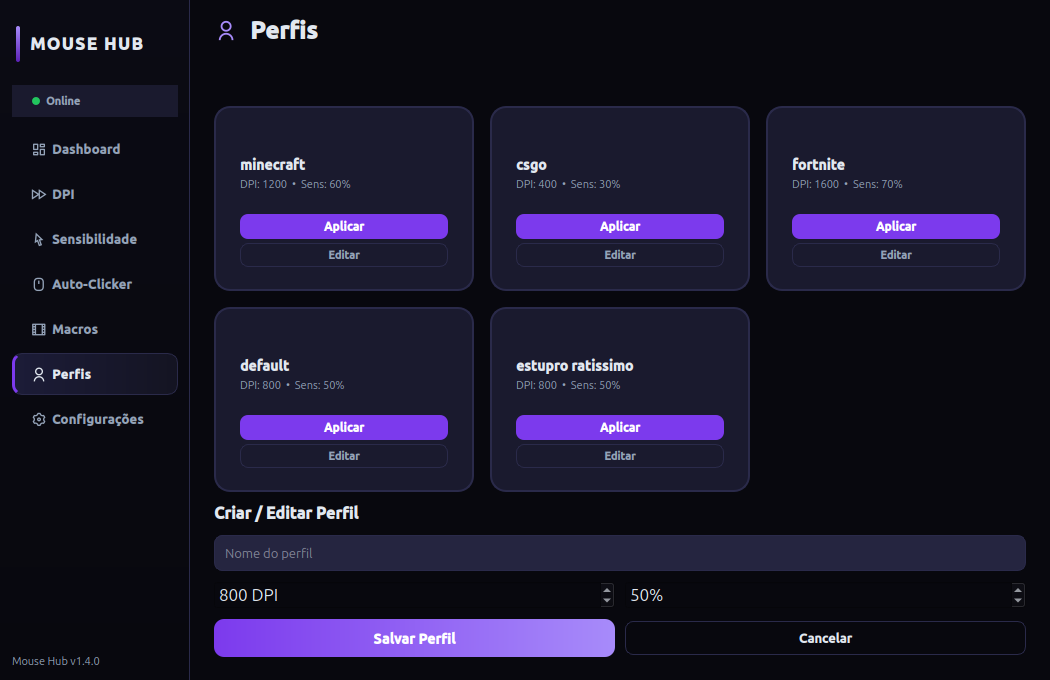
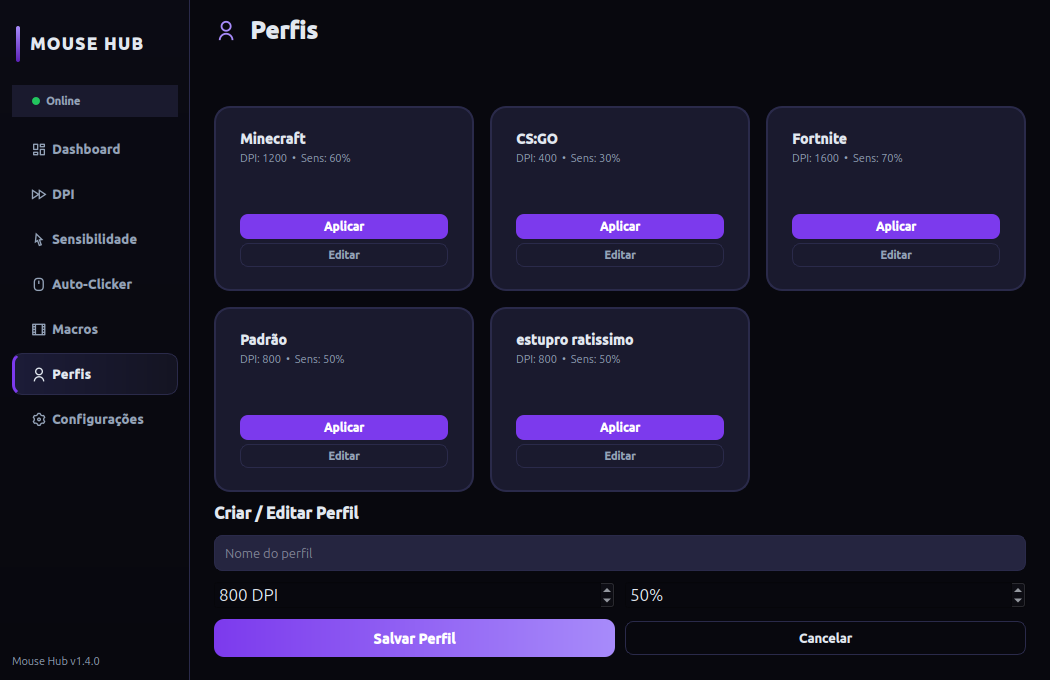
docs: record profile card validation evidence

diff --git a/specs/034-profile-card-labels/tasks.md b/specs/034-profile-card-labels/tasks.md
@@ -16,39 +16,39 @@
 
 **Independent Test**: `QT_QPA_PLATFORM=offscreen python3 -m pytest tests/test_issue85_86_profile_cards.py -q`.
 
-- [ ] T004 Criar `tests/test_issue85_86_profile_cards.py` com `QApplication`, `ProfileStore` temporário e helpers para localizar o título real de cada card.
-- [ ] T005 Escrever primeiro os testes da tabela `minecraft → Minecraft`, `csgo → CS:GO`, `fortnite → Fortnite`, `default → Padrão` e do fallback literal de nomes customizados/desconhecidos.
-- [ ] T006 Testar que `profile_cards` continua indexado pelas chaves internas e que os callbacks de Aplicar/Editar recebem o perfil original, não o label.
-- [ ] T007 Executar o teste dedicado antes da mudança de produção e registrar RED reproduzível causado pelos títulos crus e pela composição antiga.
-- [ ] T008 Adicionar o mapa/helper de display somente na UI e renderizar o título apresentado, preservando `ProfileStore` e os valores persistidos.
-- [ ] T009 Reexecutar os testes de labels e identidade e registrar GREEN.
+- [x] T004 Criar `tests/test_issue85_86_profile_cards.py` com `QApplication`, `ProfileStore` temporário e helpers para localizar o título real de cada card.
+- [x] T005 Escrever primeiro os testes da tabela `minecraft → Minecraft`, `csgo → CS:GO`, `fortnite → Fortnite`, `default → Padrão` e do fallback literal de nomes customizados/desconhecidos.
+- [x] T006 Testar que `profile_cards` continua indexado pelas chaves internas e que os callbacks de Aplicar/Editar recebem o perfil original, não o label.
+- [x] T007 Executar o teste dedicado antes da mudança de produção e registrar RED reproduzível: 4 testes passaram e 4 falharam nos contratos ausentes.
+- [x] T008 Adicionar o mapa/helper de display somente na UI e renderizar o título apresentado, preservando `ProfileStore` e os valores persistidos.
+- [x] T009 Reexecutar os testes de labels e identidade e registrar GREEN: 8 testes passaram.
 
 ## Phase 3: User Story 2 — cards sem header vazio (#86)
 
 **Goal**: O card inativo não reserva uma linha vazia, enquanto o badge ativo continua honesto e claro.
 
-- [ ] T010 Adicionar testes de composição que rejeitem `ic = QLabel("")`, contem o título no header e confirmem ausência de QLabel vazio visível no cabeçalho inativo.
-- [ ] T011 Adicionar a matriz de estados desconhecido, ativo, troca de ativo e estado não correspondente, verificando `✔ Ativo`, visibilidade e estilo.
-- [ ] T012 Adicionar testes parametrizados para 1050×680 e 760×560: contenção, ausência de overlap/h-scrollbar e alturas coerentes dos cards.
-- [ ] T013 Executar RED específico de #86 antes de editar produção.
-- [ ] T014 Remover o placeholder, fundir título e badge no header e tornar o badge condicionalmente visível, sem mudar `active_profile()` ou o grid.
-- [ ] T015 Reexecutar a matriz de estados e geometria e registrar GREEN.
+- [x] T010 Adicionar testes de composição que rejeitem `ic = QLabel("")`, contem o título no header e confirmem ausência de QLabel vazio visível no cabeçalho inativo.
+- [x] T011 Adicionar a matriz de estados desconhecido, ativo, troca de ativo e estado não correspondente, verificando `✔ Ativo`, visibilidade e estilo.
+- [x] T012 Adicionar testes parametrizados para 1050×680 e 760×560: contenção, ausência de overlap/h-scrollbar e alturas coerentes dos cards.
+- [x] T013 Executar RED específico de #86 antes de editar produção: os contratos de composição e estado falharam de forma reproduzível.
+- [x] T014 Remover o placeholder, fundir título e badge no header e tornar o badge condicionalmente visível, sem mudar `active_profile()` ou o grid.
+- [x] T015 Reexecutar a matriz de estados e geometria e registrar GREEN: 8 testes dedicados passaram.
 
 ## Phase 4: Regressões, capturas e gates locais
 
-- [ ] T016 Rodar regressões de Perfis/config/UI: `tests/test_issue6_profiles_polling.py`, `tests/test_config_profiles.py`, `tests/test_issue66_ui_craft.py` e `tests/test_issue3_ui_integration.py`.
-- [ ] T017 Confirmar por inspeção e diff que nenhum arquivo em `mouse_hub/core` ou `mouse_hub/platform` mudou e que a persistência continua byte/semânticamente compatível.
-- [ ] T018 Executar o capturador oficial duas vezes em diretórios temporários e comparar os 15 PNGs por bytes antes de atualizar os artefatos versionados.
-- [ ] T019 Verificar dimensões `5_perfis.png` 1050×680, `small_perfis.png` 760×560 e `preview.png` 2130×2770; comparar bboxes contra `origin/main` e aceitar somente as regiões de Perfis.
-- [ ] T020 Copiar e commitar somente `5_perfis.png`, `small_perfis.png` e `preview.png` após a verificação de determinismo/diff.
-- [ ] T021 Executar smoke Xvfb, `python3 -m compileall -q app mouse_hub tests scripts`, `git diff --check` e `python3 -m pytest tests/test_deb_packaging.py -q -rA`.
-- [ ] T022 Executar a suíte completa `QT_QPA_PLATFORM=offscreen PYTHONDONTWRITEBYTECODE=1 python3 -m pytest tests/ -q -rA`.
+- [x] T016 Rodar regressões de Perfis/config/UI: `tests/test_issue6_profiles_polling.py`, `tests/test_config_profiles.py`, `tests/test_issue66_ui_craft.py` e `tests/test_issue3_ui_integration.py`; todas terminaram com exit 0.
+- [x] T017 Confirmar por inspeção e diff que nenhum arquivo em `mouse_hub/core` ou `mouse_hub/platform` mudou e que a persistência continua byte/semânticamente compatível.
+- [x] T018 Executar o capturador oficial duas vezes em diretórios temporários e comparar os 15 PNGs por bytes antes de atualizar os artefatos versionados; 15/15 foram idênticos.
+- [x] T019 Verificar dimensões `5_perfis.png` 1050×680, `small_perfis.png` 760×560 e `preview.png` 2130×2770; comparar bboxes contra `origin/main` e aceitar somente as regiões de Perfis.
+- [ ] T020 Copiar e commitar somente `5_perfis.png`, `small_perfis.png` e `preview.png` após a verificação de determinismo/diff. A cópia foi feita; o commit será realizado após a revisão.
+- [x] T021 Executar smoke Xvfb, `python3 -m compileall -q app mouse_hub tests scripts`, `git diff --check` e `python3 -m pytest tests/test_deb_packaging.py -q -rA`; todos terminaram com exit 0.
+- [x] T022 Executar a suíte completa `QT_QPA_PLATFORM=offscreen PYTHONDONTWRITEBYTECODE=1 python3 -m pytest tests/ -q -rA`; 552 testes passaram com exit 0. Log: `/home/pedro/.jcode/scratch/issue85-86-full-suite.log`.
 
 ## Phase 5: Revisão, documentação e entrega
 
 - [ ] T023 Solicitar revisão independente read-only contra `origin/main...HEAD`, cobrindo FR/SC, Constituição, identidade interna, estados ativos, conflitos e ausência de core/platform.
 - [ ] T024 Corrigir achados funcionais ou lacunas de cobertura e repetir todos os gates afetados.
-- [ ] T025 Atualizar `spec.md`, `plan.md`, `tasks.md`, `research.md`, `quickstart.md` e `checklists/requirements.md` somente com evidências observadas.
+- [ ] T025 Atualizar `spec.md`, `plan.md`, `tasks.md`, `research.md`, `quickstart.md` e `checklists/requirements.md` somente com evidências observadas; esta atualização local será completada após a revisão.
 - [ ] T026 Commitar em inglês, confirmar worktree da issue e worktree principal limpos, e manter o diff mínimo.
 - [ ] T027 Publicar `fix/profile-card-labels-empty-header` e abrir PR com `Closes #85` e `Closes #86`, descrição pt-BR, testes e riscos, sem merge.
 - [ ] T028 Confirmar no HEAD final exatamente os três checks reais do CI em `SUCCESS`: lint/testes determinísticos, smoke Xvfb e pacote `.deb`.
@@ -82,5 +82,9 @@
 ## Observed Evidence
 
 - O desenho combinado foi aprovado explicitamente pelo usuário em 2026-08-30.
-- O baseline em `origin/main` passou com 544 testes e exit 0 antes dos testes novos.
-- T004 em diante ainda aguardam execução. Nenhuma mudança de produção foi feita ao criar este arquivo.
+- O baseline em `origin/main` passou com 544 testes e exit 0 antes dos testes novos. Log: `/home/pedro/.jcode/scratch/issue85-86-baseline-suite.log`.
+- O teste dedicado passou pelo ciclo TDD: RED reproduzível (4 pass, 4 fail), seguido de GREEN com 8 pass.
+- A implementação final está nos commits `7875fdb` (teste) e `322ec7e` (produção). O diff de produção é limitado à projeção visual de `ProfilesPage`.
+- As regressões de Perfis/config/UI, smoke Xvfb, compileall, `git diff --check`, empacotamento Debian (7 testes) e a suíte completa (552 testes) terminaram com exit 0.
+- Duas capturas oficiais em diretórios temporários produziram 15/15 PNGs byte a byte idênticos. As dimensões oficiais foram preservadas e, contra `origin/main`, somente `5_perfis.png`, `small_perfis.png` e `preview.png` mudaram nas regiões esperadas.
+- Os três PNGs afetados já foram copiados para o worktree, mas ainda não estão commitados. Revisão independente, PR e checks remotos permanecem pendentes.

diff --git a/specs/034-profile-card-labels/checklists/requirements.md b/specs/034-profile-card-labels/checklists/requirements.md
@@ -7,25 +7,25 @@
 
 ## Rastreabilidade e escopo
 
-- [ ] CHK001 As quatro chaves oficiais e seus labels de apresentação estão definidos sem ambiguidade.
-- [ ] CHK002 O fallback para perfis customizados e chaves desconhecidas está mensurável.
-- [ ] CHK003 A spec separa explicitamente identidade persistida de label visual.
-- [ ] CHK004 A spec proíbe alterações no core, platform, schema e hardware.
+- [x] CHK001 As quatro chaves oficiais e seus labels de apresentação estão definidos sem ambiguidade. A tabela está na spec e no teste dedicado.
+- [x] CHK002 O fallback para perfis customizados e chaves desconhecidas está mensurável e coberto pelo teste dedicado.
+- [x] CHK003 A spec separa explicitamente identidade persistida de label visual; callbacks e `profile_cards` são verificados com os objetos originais.
+- [x] CHK004 A spec proíbe alterações no core, platform, schema e hardware; o diff observado não contém `mouse_hub/core` nem `mouse_hub/platform`.
 
 ## Estados e layout
 
-- [ ] CHK005 O estado ativo é definido por estado confirmado, sem inferência por default.
-- [ ] CHK006 O comportamento inativo não deixa header visualmente vazio.
-- [ ] CHK007 Os viewports 1050×680 e 760×560 têm critérios observáveis de contenção e alinhamento.
-- [ ] CHK008 A remoção do placeholder não exige ícone, emoji ou nova dependência.
+- [x] CHK005 O estado ativo é definido por estado confirmado, sem inferência por default; a matriz dedicada cobre desconhecido, ativo e troca.
+- [x] CHK006 O comportamento inativo não deixa header visualmente vazio; o título ocupa o header e o placeholder é rejeitado pelo teste.
+- [x] CHK007 Os viewports 1050×680 e 760×560 têm critérios observáveis de contenção, ausência de overlap/h-scrollbar e alinhamento.
+- [x] CHK008 A remoção do placeholder não exige ícone, emoji ou nova dependência; o diff de produção não adiciona nenhum desses elementos.
 
 ## Verificação e entrega
 
-- [ ] CHK009 Existe teste offscreen que falha no baseline e cobre cada requisito funcional.
-- [ ] CHK010 As screenshots, dimensões, determinismo e bboxes estão definidos.
-- [ ] CHK011 Os gates locais e os três checks reais do CI estão nomeados exatamente.
-- [ ] CHK012 O PR permanece aberto e não merged, conforme a governança do projeto.
+- [x] CHK009 Existe teste offscreen que falha no baseline e cobre cada requisito funcional local da feature; RED foi observado com 4 pass e 4 fail, e GREEN com 8 pass.
+- [x] CHK010 As screenshots, dimensões, determinismo e bboxes estão definidos e foram verificados: 15/15 idênticas em duas capturas.
+- [x] CHK011 Os gates locais e os três checks reais do CI estão nomeados exatamente na spec, no plano e no quickstart; os gates locais passaram e o CI remoto ainda aguarda PR.
+- [ ] CHK012 O PR permanece aberto e não merged, conforme a governança do projeto. Ainda não há PR para esta feature.
 
 ## Notas
 
-- Marcar somente após a revisão correspondente. Não usar este checklist para antecipar resultados de testes.
+- A checklist registra somente observações reproduzidas. A revisão independente, o commit dos PNGs, o PR e a confirmação dos três checks remotos continuam pendentes.

diff --git a/specs/034-profile-card-labels/spec.md b/specs/034-profile-card-labels/spec.md
@@ -3,7 +3,7 @@
 **Feature Branch**: `fix/profile-card-labels-empty-header`
 **Feature Directory**: `034-profile-card-labels`
 **Created**: 2026-08-30
-**Status**: Draft
+**Status**: Implementação e validação local concluídas; revisão independente, PR e CI remoto pendentes
 **Issues**: [#85](https://github.com/Base-Analitica/mouse-hub/issues/85) e [#86](https://github.com/Base-Analitica/mouse-hub/issues/86)
 
 **Input**: Os cards da página de Perfis exibem diretamente chaves internas de persistência (`minecraft`, `csgo`, `fortnite` e `default`) e criam uma linha superior composta por placeholders vazios. A correção deve separar identidade de armazenamento da apresentação e remover o espaço estrutural morto, sem alterar persistência, aplicação de perfis, estado ativo ou regras de domínio.
@@ -113,3 +113,11 @@ As screenshots versionadas da página de Perfis devem mostrar os nomes de aprese
 - A identidade persistida não será renomeada ao alterar a apresentação. O formulário de edição e o fluxo de salvamento existentes ficam fora desta feature, salvo para confirmar que os callbacks continuam usando a identidade original.
 - A branch parte de `origin/main`, que está no baseline do projeto. PRs abertos que alteram `ProfilesPage` ou screenshots próximas não são base desta implementação.
 - Testes offscreen, Xvfb e CI comprovam comportamento de software. Eles não constituem validação física do G403 HERO.
+
+## Validation Status
+
+- O desenho combinado foi aprovado explicitamente pelo usuário em 2026-08-30.
+- O teste dedicado cobriu labels oficiais, fallback, identidade dos callbacks, composição do header, estados ativo/desconhecido/troca e os dois viewports. O ciclo TDD observado foi RED com 4 pass e 4 fail, seguido de GREEN com 8 pass.
+- As regressões de Perfis/config/UI, smoke Xvfb, compileall, `git diff --check`, empacotamento Debian e a suíte completa passaram localmente. A suíte completa terminou com 552 testes e exit 0.
+- O capturador oficial foi executado duas vezes em diretórios temporários. Os 15 PNGs foram byte a byte idênticos; `5_perfis.png` (1050×680), `small_perfis.png` (760×560) e `preview.png` (2130×2770) mudaram somente nas regiões esperadas contra `origin/main`.
+- Os três PNGs afetados estão copiados no worktree, mas ainda aguardam commit. A revisão independente, o PR e os três checks reais do CI no HEAD final permanecem pendentes.

diff --git a/specs/034-profile-card-labels/plan.md b/specs/034-profile-card-labels/plan.md
@@ -138,4 +138,8 @@ Não alterar `ProfileStore`, `active_profile()`, `MouseCoreState`, limites, serv
 - O usuário aprovou explicitamente o desenho combinado de #85/#86 em 2026-08-30.
 - Worktree isolado criado em `/home/pedro/.jcode/scratch/issue85-86-profile-cards`, branch `fix/profile-card-labels-empty-header`, baseado em `origin/main` no SHA `abad8b13877ab9b870f1bbe92c12d2d21738f569`.
 - Baseline completo executado antes dos testes novos: exit 0, 544 testes aprovados. Log fora do repositório em `/home/pedro/.jcode/scratch/issue85-86-baseline-suite.log`.
-- A implementação e a captura ainda não foram iniciadas neste ponto do plano.
+- O teste dedicado passou pelo ciclo TDD: RED reproduzível com 4 pass e 4 fail, seguido de GREEN com 8 pass.
+- A produção usa `_PROFILE_DISPLAY_NAMES` apenas na UI, remove `ic = QLabel(\"\")`, coloca o título no header e alterna o badge `✔ Ativo` conforme o estado confirmado. `ProfileStore`, `active_profile()`, `profile_cards` e callbacks continuam usando a identidade original.
+- Regressões de Perfis/config/UI, smoke Xvfb, compileall, `git diff --check`, empacotamento Debian (7 testes) e a suíte completa (552 testes) terminaram com exit 0.
+- O capturador oficial foi executado duas vezes em diretórios temporários; os 15 PNGs foram byte a byte idênticos. As dimensões oficiais foram preservadas, e contra `origin/main` somente `5_perfis.png`, `small_perfis.png` e `preview.png` mudaram nas regiões esperadas.
+- O diff ainda não contém os três PNGs, pois eles foram apenas copiados para o worktree. A revisão independente, os commits finais, o PR e os checks remotos permanecem pendentes.

diff --git a/specs/034-profile-card-labels/research.md b/specs/034-profile-card-labels/research.md
@@ -48,3 +48,10 @@
 - Não há necessidade de alterar core, platform, schema, dependências ou captura.
 - O hardware físico não participa da feature.
 - A validação de software não será descrita como validação física do G403 HERO.
+
+## Evidências observadas após a implementação
+
+- O teste dedicado passou pelo ciclo TDD: RED reproduzível com 4 testes passando e 4 falhando, seguido de GREEN com 8 testes passando.
+- Regressões de Perfis/config/UI, smoke Xvfb, compileall, `git diff --check`, empacotamento Debian e a suíte completa passaram; a suíte completa terminou com 552 testes e exit 0.
+- O capturador oficial produziu duas execuções independentes com 15/15 PNGs byte a byte idênticos. As três imagens esperadas mantiveram as dimensões oficiais e foram as únicas alteradas contra `origin/main`.
+- Os artefatos PNG estão copiados no worktree, mas a revisão independente, o commit final, o PR e o CI remoto ainda não foram realizados. Nenhuma evidência local é tratada como substituta desses gates.

diff --git a/specs/034-profile-card-labels/quickstart.md b/specs/034-profile-card-labels/quickstart.md
@@ -73,3 +73,11 @@ Depois de commitar e publicar a branch, abrir um PR com `Closes #85` e `Closes #
 - `Pacote .deb`
 
 O PR deve permanecer aberto e não merged. Testes offscreen, Xvfb e CI comprovam comportamento de software, não validação física do G403 HERO ou de sessão X11 real.
+
+## Estado observado nesta execução
+
+- Baseline: 544 testes, exit 0.
+- RED dedicado: 4 pass e 4 fail; GREEN dedicado: 8 pass.
+- Suíte final local: 552 testes, exit 0; smoke Xvfb, compileall, diff-check e pacote Debian também passaram.
+- Capturas oficiais: 15/15 PNGs byte a byte idênticos em duas execuções; dimensões e bboxes dentro do escopo esperado.
+- Antes da entrega, ainda é obrigatório revisar, commitar os três PNGs, abrir o PR e confirmar exatamente os três checks reais do CI no HEAD final.
